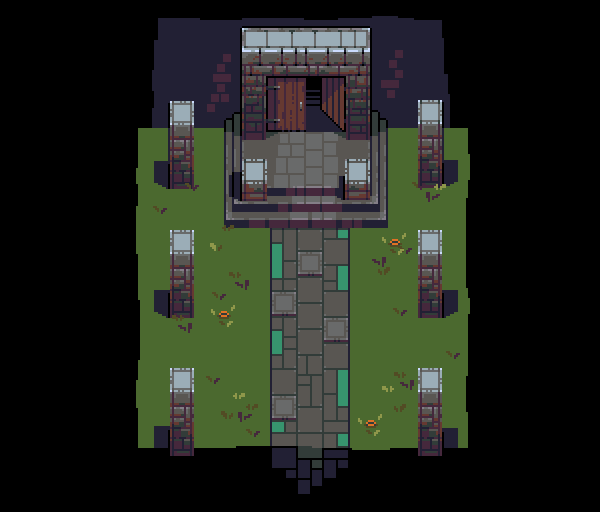
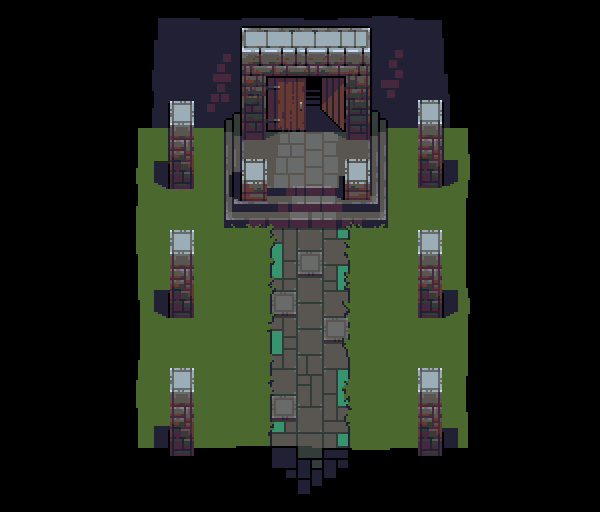
polished up the entrance level

diff --git a/core/src/com/lovely/games/TheFirstGate.java b/core/src/com/lovely/games/TheFirstGate.java
@@ -152,6 +152,7 @@ public class TheFirstGate extends ApplicationAdapter implements Stage {
     private float levelTransitionTimer = 0;
     private boolean leaveLevel = false;
     private StonePrizeScene stonePrizeScene = null;
+    private Map<String, Animation<TextureRegion>> guffImages;
 
     @Override
 	public void create () {
@@ -222,6 +223,12 @@ public class TheFirstGate extends ApplicationAdapter implements Stage {
         assetManager.load("entity/lazer.png", Texture.class);
         assetManager.load("entity/lazer-horizontal.png", Texture.class);
         assetManager.load("entity/campfire.png", Texture.class);
+        assetManager.load("entity/grass-1.png", Texture.class);
+        assetManager.load("entity/grass-2.png", Texture.class);
+        assetManager.load("entity/grass-3.png", Texture.class);
+        assetManager.load("entity/grass-4.png", Texture.class);
+        assetManager.load("entity/dust-air.png", Texture.class);
+        assetManager.load("entity/dust-air-2.png", Texture.class);
 
         assetManager.load("character/pro-simple-fall-death.png", Texture.class);
         assetManager.load("character/pro-simple-fire-death.png", Texture.class);
@@ -391,6 +398,13 @@ public class TheFirstGate extends ApplicationAdapter implements Stage {
         arrowExplodeAnim = loadAnimation(assetManager.get("entity/arrow-explode.png"), 8, 0.05f);
         torchAnim = loadAnimation(assetManager.get("entity/torch-sheet.png"), 2, 0.5f);
         campfireAnim = loadAnimation(assetManager.get("entity/campfire.png"), 8, 0.1f);
+        guffImages = new HashMap<>();
+        guffImages.put("entity/grass-1.png", loadAnimation(assetManager.get("entity/grass-1.png"), 4, 0.515f));
+        guffImages.put("entity/grass-2.png", loadAnimation(assetManager.get("entity/grass-2.png"), 4, 0.52f));
+        guffImages.put("entity/grass-3.png", loadAnimation(assetManager.get("entity/grass-3.png"), 4, 0.525f));
+        guffImages.put("entity/grass-4.png", loadAnimation(assetManager.get("entity/grass-4.png"), 4, 0.53f));
+        guffImages.put("entity/dust-air.png", loadAnimation(assetManager.get("entity/dust-air.png"), 16, 0.2f));
+        guffImages.put("entity/dust-air-2.png", loadAnimation(assetManager.get("entity/dust-air-2.png"), 16, 0.2f));
         arrowSprite = new Sprite();
         arrowSprite.setBounds(0,0,32,32);
 //        actorImages = new HashMap<>();
@@ -714,7 +728,10 @@ public class TheFirstGate extends ApplicationAdapter implements Stage {
             mapRenderer.render();
             batch.setProjectionMatrix(camera.combined);
             batch.begin();
-
+            for (Guff guff : currentLevel.guffs) {
+                TextureRegion currentFrame = guffImages.get(guff.imageName).getKeyFrame(animationDelta + guff.offset, true);
+                batch.draw(currentFrame, guff.pos.x, guff.pos.y, guff.size.x, guff.size.y);
+            }
             for (PressureTile pressureTile : currentLevel.pressureTiles) {
                 batch.draw(pressureImage, pressureTile.pos.x, pressureTile.pos.y);
             }

diff --git a/core/src/com/lovely/games/Level.java b/core/src/com/lovely/games/Level.java
@@ -42,6 +42,7 @@ class Level {
     List<SceneSource> scenes;
     Trunk trunk;
     List<Actor> actors;
+    List<Guff> guffs;
     public List<Wind> winds;
     public List<Enemy> enemies;
 
@@ -49,7 +50,7 @@ class Level {
           int numYTiles, List<ArrowSource> arrowSources, List<Platform> platforms, List<Block> blocks,
           List<PressureTile> pressureTiles, List<Door> doors, List<DialogSource> dialogSources,
           List<LevelLight> lights, List<Torch> torches, List<SceneSource> scenes, Trunk trunk, List<Actor> actors,
-          List<Wind> winds, List<Enemy> enemies) {
+          List<Wind> winds, List<Enemy> enemies, List<Guff> guffs) {
         this.connections = connections;
         this.walls = walls;
         this.deaths = deaths;
@@ -69,6 +70,7 @@ class Level {
         this.actors = actors;
         this.winds = winds;
         this.enemies = enemies;
+        this.guffs = guffs;
     }
 
     Vector2 getConnectionPosition(String name) {
@@ -284,6 +286,7 @@ class Level {
         List<Actor> actors = new ArrayList<>();
         private List<Wind> winds = new ArrayList<>();
         List<Enemy> enemies = new ArrayList<>();
+        private List<Guff> guffs = new ArrayList<>();
 
         Builder(String name, int numXTiles, int numYTiles) {
             this.name = name;
@@ -383,6 +386,11 @@ class Level {
             return this;
         }
 
+        Builder addGuff(Vector2 pos, Vector2 size, String image) {
+            this.guffs.add(new Guff(image, pos, size));
+            return this;
+        }
+
         Trunk getTrunk() {
             return this.trunk;
         }
@@ -395,7 +403,7 @@ class Level {
                 deaths = new boolean[numXTiles][numYTiles];
             }
             return new Level(connections, walls, deaths, name, numXTiles, numYTiles, arrowSources, platforms, blocks,
-                    pressureTiles, doors, dialogSources, lights, torches, scenes, trunk, actors, winds, enemies);
+                    pressureTiles, doors, dialogSources, lights, torches, scenes, trunk, actors, winds, enemies, guffs);
         }
 
 
@@ -563,6 +571,13 @@ class Level {
                     color = new Color(r, g, b, a);
                 }
                 builder.addLight(new LevelLight(pos, size, color));
+            }
+            if (properties.containsKey("type") && properties.get("type").equals("guff")) {
+                RectangleMapObject rectObj = (RectangleMapObject) obj;
+                Vector2 pos = new Vector2(rectObj.getRectangle().x, rectObj.getRectangle().y);
+                Vector2 size = new Vector2(rectObj.getRectangle().width, rectObj.getRectangle().height);
+                String image = properties.get("image").toString();
+                builder.addGuff(pos, size, image);
             }
             if (properties.containsKey("type") && properties.get("type").equals("scene")) {
                 RectangleMapObject rectObj = (RectangleMapObject) obj;

diff --git a/core/src/com/lovely/games/DialogContainer.java b/core/src/com/lovely/games/DialogContainer.java
@@ -204,6 +204,19 @@ public class DialogContainer {
                 line(ant, "No", "happy"),
                 line(ant, "Good luck!", "happy")
         ));
+        dialogs.put("26", Arrays.asList(
+                line(ant, "Why are you here?"),
+                line(pro, "I am here to pass through the first gate", "worried"),
+                line(ant, "You are joking?", "happy"),
+                line(ant, "By your rags and limp you are clearly a beggar", "talk"),
+                line(pro, "I have travelled far and suffered much just to take these tests", "worried"),
+                line(ant, "Begone you fool, this place is for the finest men and women.", "angry"),
+                line(ant, "Those who wish to pass the first gate...", "talk"),
+                line(ant, "...to become a wizard", "happy")
+        ));
+        dialogs.put("27", Arrays.asList(
+                line(pro, "We will see", "angry")
+        ));
     }
 
     String currentDialog;

diff --git a/core/src/com/lovely/games/scene/SceneContainer.java b/core/src/com/lovely/games/scene/SceneContainer.java
@@ -168,6 +168,14 @@ public class SceneContainer {
                 .verb(new DialogVerb("25"))
                 .build());
 
+        scenes.put("25", builder()
+                .verb(new DialogVerb("26"))
+                .verb(new MoveVerb(new Vector2(0, 32 * 2), "ant", true))
+                .verb(new HideShowActorVerb(true, "ant"))
+                .verb(new SendEventVerb("a"))
+                .verb(new DialogVerb("27"))
+                .build());
+
         scenes.put("new-game", builder()
                 .verb(new GameControlVerb("new-game"))
                 .build());

diff --git a/core/src/com/lovely/games/Guff.java b/core/src/com/lovely/games/Guff.java
@@ -1,0 +1,19 @@
+package com.lovely.games;
+
+import com.badlogic.gdx.math.MathUtils;
+import com.badlogic.gdx.math.Vector2;
+
+public class Guff {
+
+    float offset;
+    String imageName;
+    Vector2 pos;
+    Vector2 size;
+
+    public Guff(String imageName, Vector2 pos, Vector2 size) {
+        this.imageName = imageName;
+        this.pos = pos;
+        this.size = size;
+        this.offset = MathUtils.random(0, 5.0f);
+    }
+}
